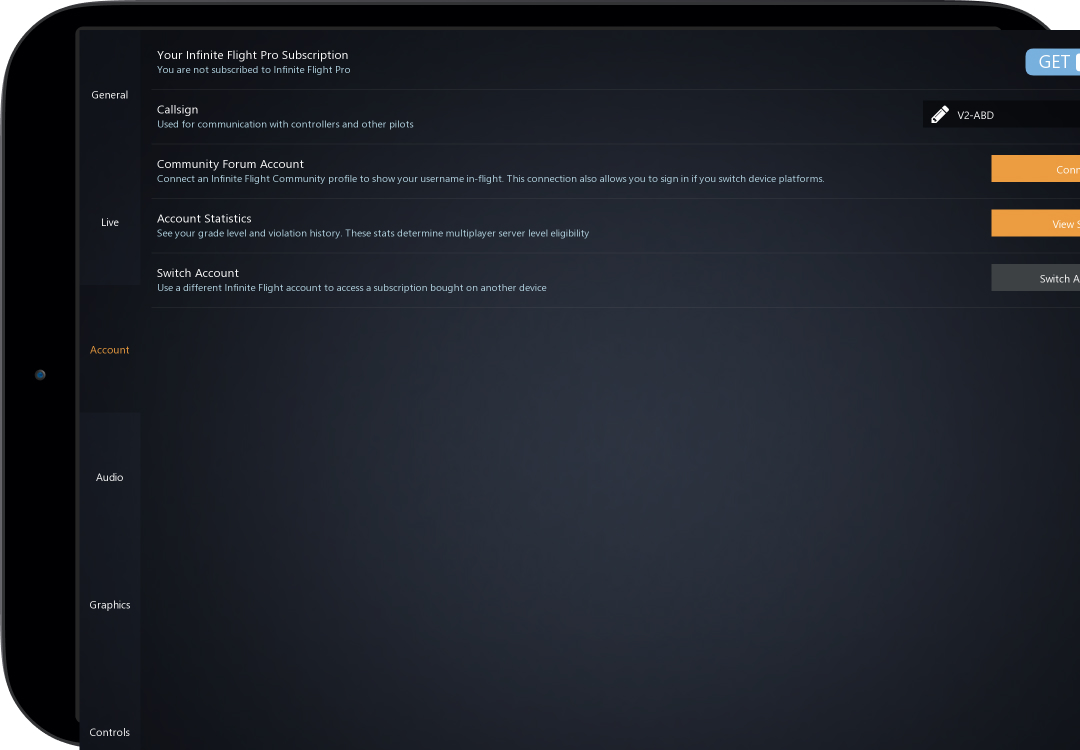
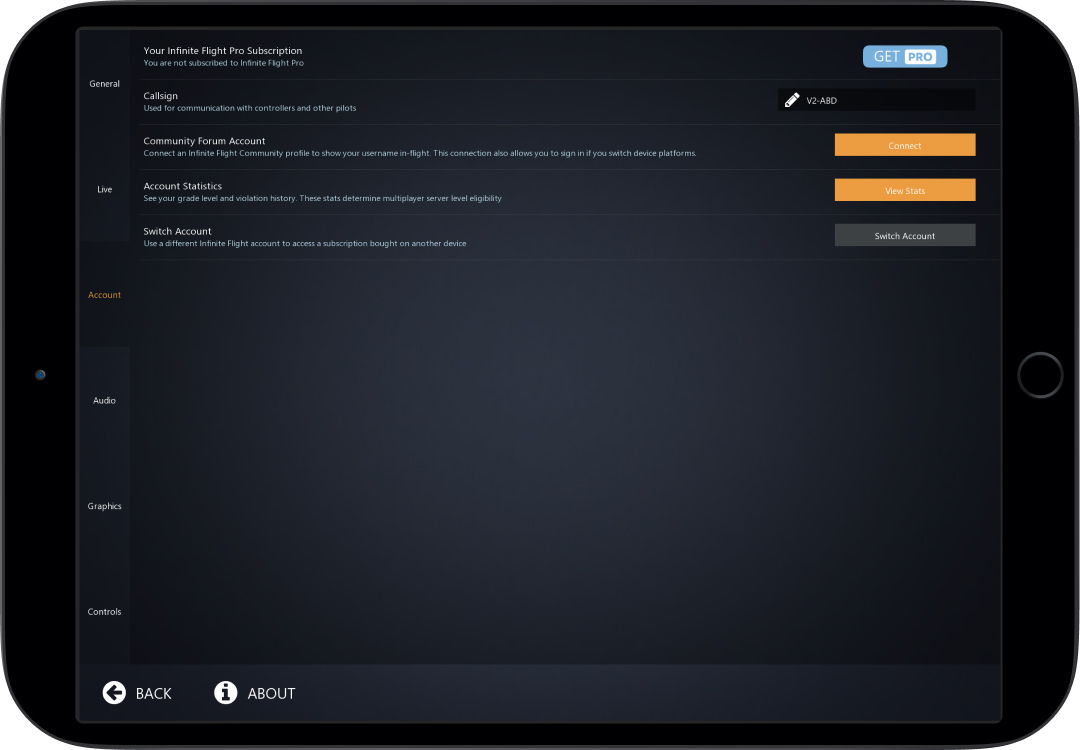
Getting Started Guide Update
- [FIX] Images fixed

diff --git a/getting-started/home-user-interface/settings.md b/getting-started/home-user-interface/settings.md
@@ -11,7 +11,7 @@ contributor: deercrusher
 The Settings menu allows you to customize your Infinite Flight experience before and during play. Below is a guide to help you navigate your way around and to find the best settings for you!
 
 
-![Settings Page](_images/manual/frames/settings-main.jpg)
+![Settings Page](_images/manual/frames/settings-main1.jpg)
 
 
 1. On the left hand side of the screen are 5 categories that split the settings up, tap each one to find settings within
@@ -74,7 +74,7 @@ Tip
 
  
 
-![Live Settings Page](_images/manual/frames/settings-live.jpg)
+![Live Settings Page](_images/manual/frames/settings-live1.jpg)
 
 
 
@@ -122,7 +122,7 @@ There are two sliders that adjust the SFX and ATC Volume. Slide your finger alon
 
 
 
-![Audio Settings Page](_images/manual/frames/settings-audio.jpg)
+![Audio Settings Page](_images/manual/frames/settings-audio1.jpg)
 
 
 
@@ -145,7 +145,7 @@ Infinite Flight supports both iOS and Android device; because of this, the graph
 
 
 
-![Graphics Settings Page](_images/manual/frames/settings-graphics.jpg)
+![Graphics Settings Page](_images/manual/frames/settings-graphics1.jpg)
 
 
 
@@ -179,7 +179,7 @@ Infinite Flight supports both iOS and Android device; because of this, the graph
 
 
 
-![Control Settings Page](_images/manual/frames/settings-controls.jpg)
+![Control Settings Page](_images/manual/frames/settings-controls1.jpg)
 
 
 

diff --git a/getting-started/home-user-interface/subscriptions.md b/getting-started/home-user-interface/subscriptions.md
@@ -33,10 +33,6 @@ The Infinite Flight Pro Subscription comes with all In-App Purchases unlocked, i
 
 
 
-![Account Settings Page](_images/manual/frames/account.jpg)
-
-
-
 Step 1
 
 : When Infinite Flight is installed, it will automatically check for previous subscriptions

diff --git a/getting-started/home-user-interface/user-profile.md b/getting-started/home-user-interface/user-profile.md
@@ -114,7 +114,7 @@ The Grade Table is broken up into 4 sections, these are:
 
 
 
-![Grade Table](_images/manual/frames/grade-table.jpg)
+![Grade Table](_images/manual/frames/grade-table1.jpg)
 
 
 
